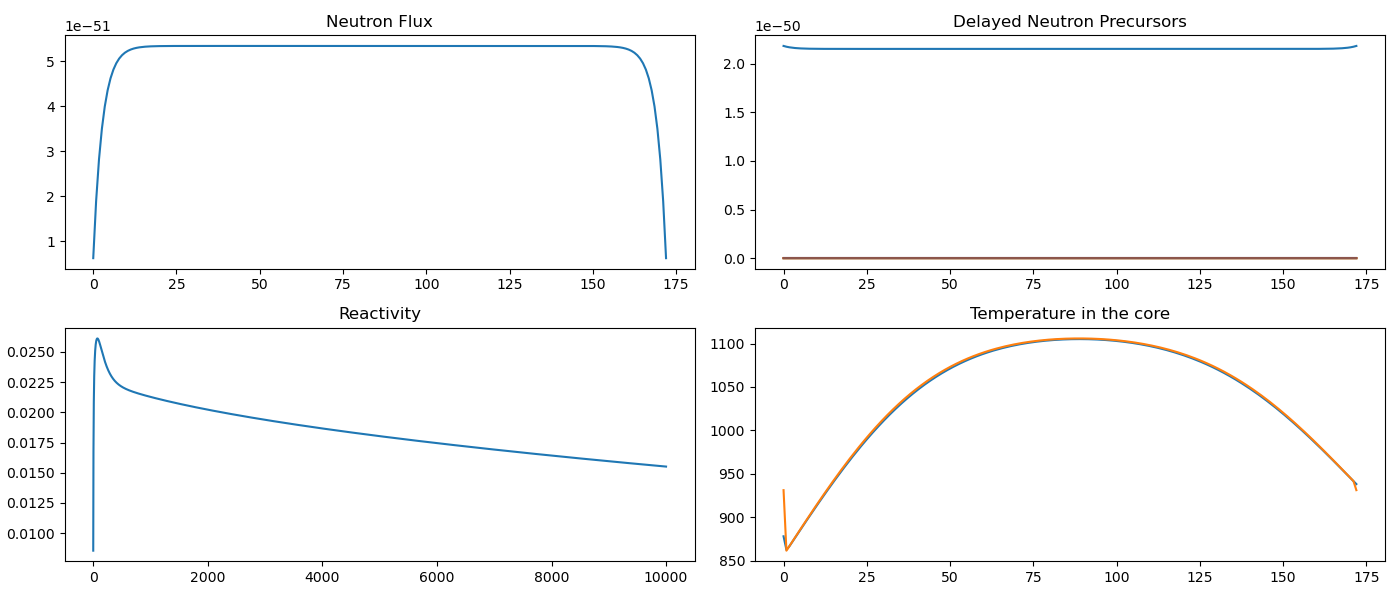
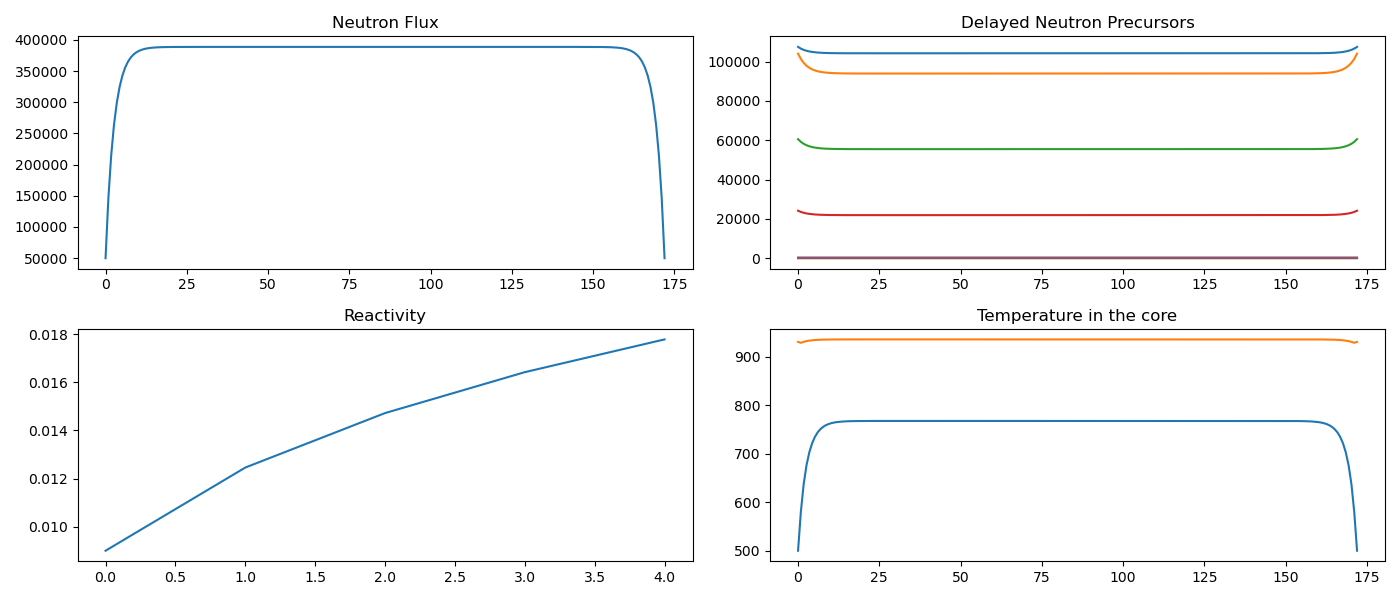
parameters

diff --git a/main.py b/main.py
@@ -15,10 +15,10 @@ from HX2 import HX2
 from transport_delay import transport_delay
 from power_plant import power_plant_temp
 
-time_span = 10000
+time_span = 500
 
 # reactivity insertion rod
-rho_insertion = 50  # pcm
+rho_insertion = 50 * np.ones(N)  # pcm
 
 # initialization
 rho=rho_init*1e-5
@@ -102,9 +102,9 @@ for step in range (time_span):
     Tsss_pp_0=y_pp
     
     rho=reactivity(temperature_fuel, temperature_graphite, step, time_span, rho_insertion)
-    rho_matrix[step]=rho
+    rho_matrix[step]=rho[int(N/2)]
     if step>0:
-        rho_dt_matrix[step]=rho-rho_matrix[step-1]
+        rho_dt_matrix[step]=rho[int(N/2)]-rho_matrix[step-1]
 
 # plot phi to axis N
 z = np.linspace(0, L, N)
@@ -159,9 +159,12 @@ plt.tight_layout()
 plt.savefig('precursors_with_time_middle.png')  # Save the figure
 plt.close(fig)  # Close the figure
 
-fig, ax = plt.subplots(figsize=(14, 6))
-ax.plot(rho_dt_matrix, label='Reactivity change')
-ax.set_title('Reactivity_dt')
+fig, ax = plt.subplots(2, 2, figsize=(14, 6))
+ax[0, 0].plot(rho_dt_matrix, label='Reactivity change')
+ax[0, 0].set_title('Reactivity_dt')
+
+ax[0, 1].plot(z, rho, label='Reactivity')
+ax[0, 1].set_title('Reactivity')
 
 plt.tight_layout()
 plt.savefig('rho_dt.png')  # Save the figure

diff --git a/parameters.py b/parameters.py
@@ -39,8 +39,8 @@ c_p_g = 1757    # Specific heat of graphite, J/kg K
 # bc_sL = 958.15
 # bc_g0 = 920
 # bc_gL = 968.71
-bc_s0 = 908.15
-bc_sL = 938.15
+bc_s0 = 500
+bc_sL = 500
 bc_g0 = 931.15
 bc_gL = 931.15
 # Initial conditions
@@ -49,6 +49,7 @@ initialG = (bc_g0 + (bc_gL - bc_g0) * (0.5 + 0.5 * np.sin(np.pi * (np.linspace(0
 referenceS=930
 referenceG=931.15
 # Heat Exchanger 1
+err = 1e-5
 Nx = N  # Number of spatial points
 L_HX = 2    # length of the spatial domain
 dx = L / (N - 1)    # Spatial step size
@@ -86,7 +87,7 @@ u2_init = u2_L + (u2_H - u2_L) * (0.5 + 0.7 * np.sin(np.pi * (np.linspace(0, L_H
 v2_init = v2_L + (v2_H - v2_L) * (0.5 + 0.7 * np.sin(np.pi * (np.linspace(0, L_HX2, Nx) / L_HX2))* 1.05).T
 
 # Reactivity
-rho_init=50
+rho_init=50 * np.ones(N)
 alpha_f    = -5.904E-5  # U233 (drho/K) fuel salt temperature-reactivity feedback coefficient ORNL-TM-1647 p.3 % -5.904E-05; % ORNL-TM-0728 p. 101 %
 alpha_g    = -6.624E-5  # U233  (drho/K) graphite temperature-reactivity feedback coefficient ORNL-TM-1647 p.3 % -6.624E-05; % ORNL-TM-0728 p.101
 tau_l  = 16.73  # ORNL-TM-0728 %16.44; % (s)

diff --git a/neutronics.py b/neutronics.py
@@ -1,6 +1,7 @@
 from scipy.sparse.linalg import spsolve
 # from scipy.integrate import solve_ivp
 import numpy as np
+from numpy.linalg import inv
 
 from parameters import *
 from ode_solver import ode_solver
@@ -22,7 +23,7 @@ A = csc_matrix(I - 0.5 * dt * V * D * D2_sparse)
 B = csc_matrix(I + 0.5 * dt * V * D * D2_sparse)
 
 def neutronics(y_n, rho, step):
-    Keff=1/(1-rho)
+    Keff=1/(np.ones(N)-rho)
     def pde_to_ode_neutronics(t, y):
         
         phi = y[:N]
@@ -32,7 +33,7 @@ def neutronics(y_n, rho, step):
         for i in range(6):
             lambda_ci += lambda_i[i]*y[(i+1)*N:(i+2)*N]
             
-        rhs_phi = B @ phi + dt * V * ((-sigma_a + ((1 - Beta) * nu_sigma_f/Keff)) * phi + lambda_ci)
+        rhs_phi = B @ phi + dt * V * ((-sigma_a + ((1 - Beta) * nu_sigma_f / Keff)) * phi + lambda_ci)
         # Check for invalid values
         # if np.any(np.isnan(rhs_φ)) or np.any(np.isinf(rhs_φ)):
         #     print(f"Invalid values encountered at t={t}")

diff --git a/HX1.py b/HX1.py
@@ -33,8 +33,8 @@ def HX1(y_hx1, Ts_HX1_L, Tss_HX1_0, step):
         u=y[:Nx]
         v=y[Nx:]
         
-        du_dt = C1 * (A_HX_sparse @ u) + C2 * (u - v)
-        dv_dt = C3 * (A_HX_sparse @ v) + C4 * (u - v)
+        du_dt = C1 * (A_HX_sparse @ u) + C2 * (u - v) + err
+        dv_dt = C3 * (A_HX_sparse @ v) + C4 * (u - v) + err
         
         # Apply time-varying boundary conditions
         du_dt[0] = u_L - u[0] / dx

diff --git a/reactivity.py b/reactivity.py
@@ -38,7 +38,7 @@ def reactivity(temperature_fuel, temperature_graphite, step, time_span, rho_inse
     else:
         react = reactdata[1]
         
-    rho_feedback=(referenceS-np.sum(temperature_fuel)/N)*alpha_f+(referenceG-np.sum(temperature_graphite)/N)*alpha_g
+    rho_feedback=(initialS-temperature_fuel)*alpha_f+(initialG-temperature_graphite)*alpha_g
     
     rho=rho_0+rho_feedback+react
     
